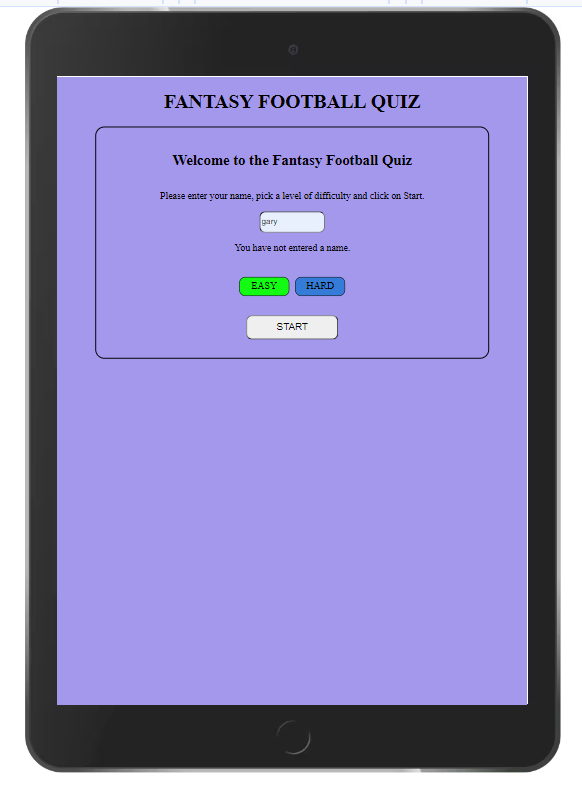
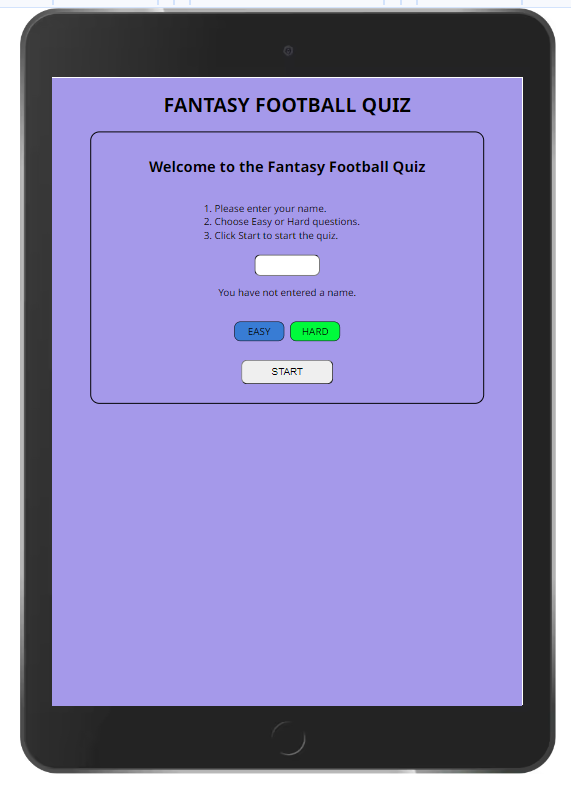
add list to welcome area and update readme

diff --git a/index.html b/index.html
@@ -16,7 +16,11 @@
     <!-- The Welcome Area to welcome the user to the quiz. -->
     <div class="welcome-area">
         <h2>Welcome to the Fantasy Football Quiz</h2>
-        <p id="welcome-par">Please enter your name, pick a level of difficulty and click on Start.</p>
+        <ol id="welcome-par">
+            <li>Please enter your name.</li>
+            <li>Choose Easy or Hard questions.</li>
+            <li>Click Start to start the quiz.</li>
+        </ol>
         <input type="text" name="name" id="name" aria-label="Enter your name here.">
         <!-- The warning message that is displayed when the user has not entered a name. -->
         <p id="warning-message"></p>

diff --git a/assets/css/style.css b/assets/css/style.css
@@ -31,6 +31,11 @@ Set a max width for the Welcome Area so that it's not too stretched on the scree
     border-radius: 15px;
 }
 
+#welcome-par {
+    text-align: left;
+    padding: 5px;
+}
+
 #name {
     height: 30px;
     width: 100px;
